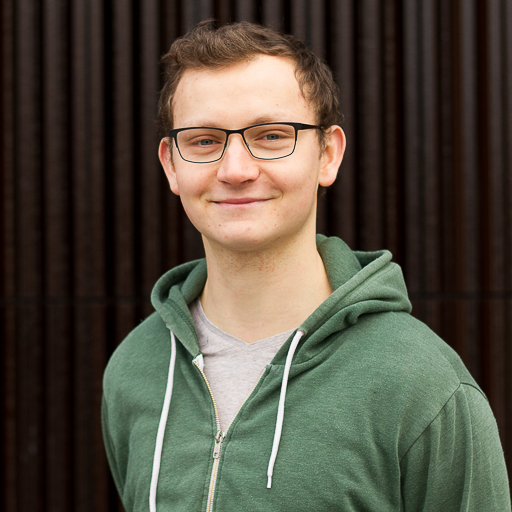
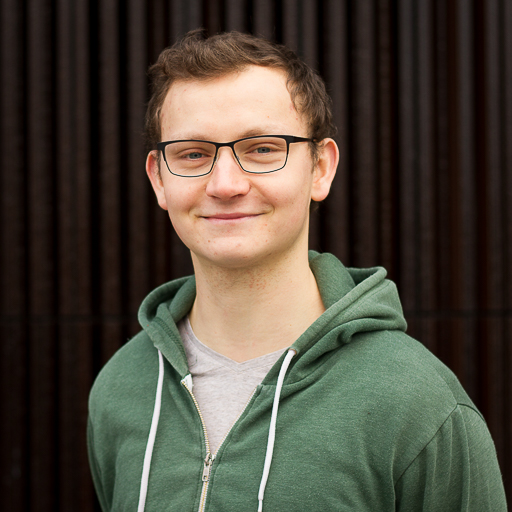
Added karl to the team and new team fotos.

diff --git a/team.html b/team.html
@@ -322,6 +322,23 @@
                                     </div>
                                 </div>
                             </div>
+
+                            <div class="portfolio-item">
+                                <div class="portfolio-item-content-team">
+                                    <div class="item-thumbnail">
+                                        <img src="img/team/karl.jpg" alt="">
+                                    </div>
+                                    <div class="portfolio-description">
+                                        <h4><a href="https://de.linkedin.com/in/tichy-karl-75476581" target="_blank">Karl Tichy</a></h4>
+                                        <!--<ul class="portfolio-cat">-->
+                                        <!--<li><a href="#">Wizard of light bulb moments</a></li>-->
+                                        <!--</ul>-->
+                                        <ul class="portfolio-action-btn">
+                                            <li><a class="" data-gall="myGallery" href="https://de.linkedin.com/in/tichy-karl-75476581" target="_blank"><i class="icon-attachment"></i></a></li>
+                                        </ul>
+                                    </div>
+                                </div>
+                            </div>
                         </div>
                     </div>
                 </div>
